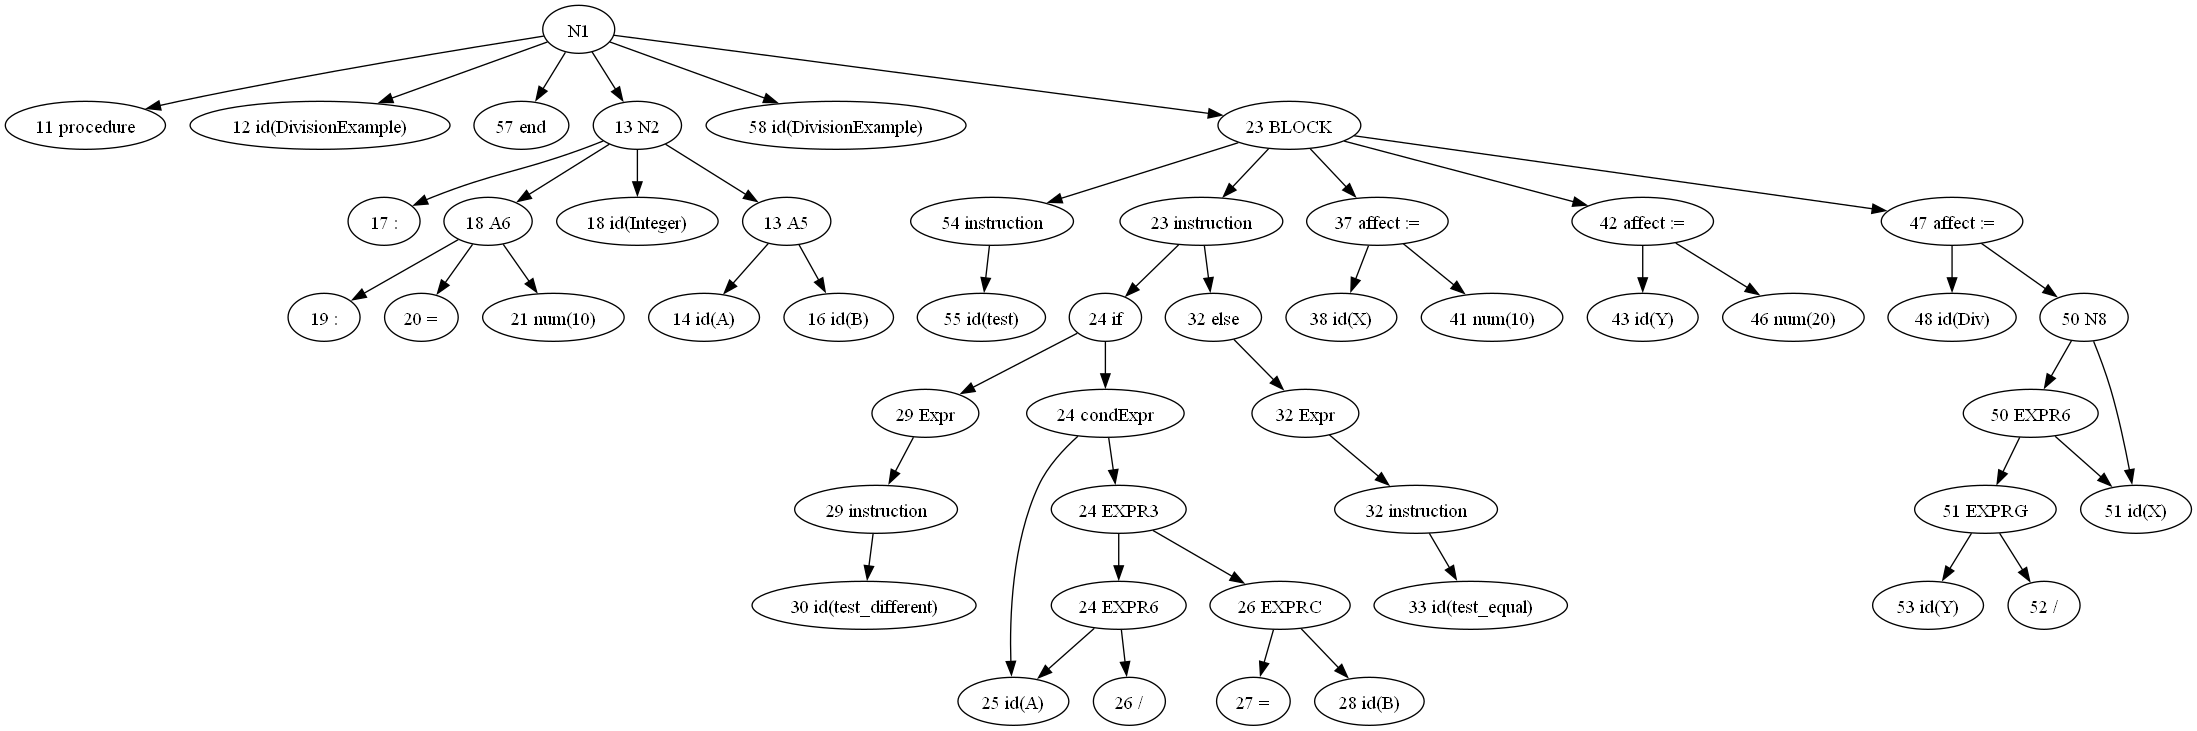
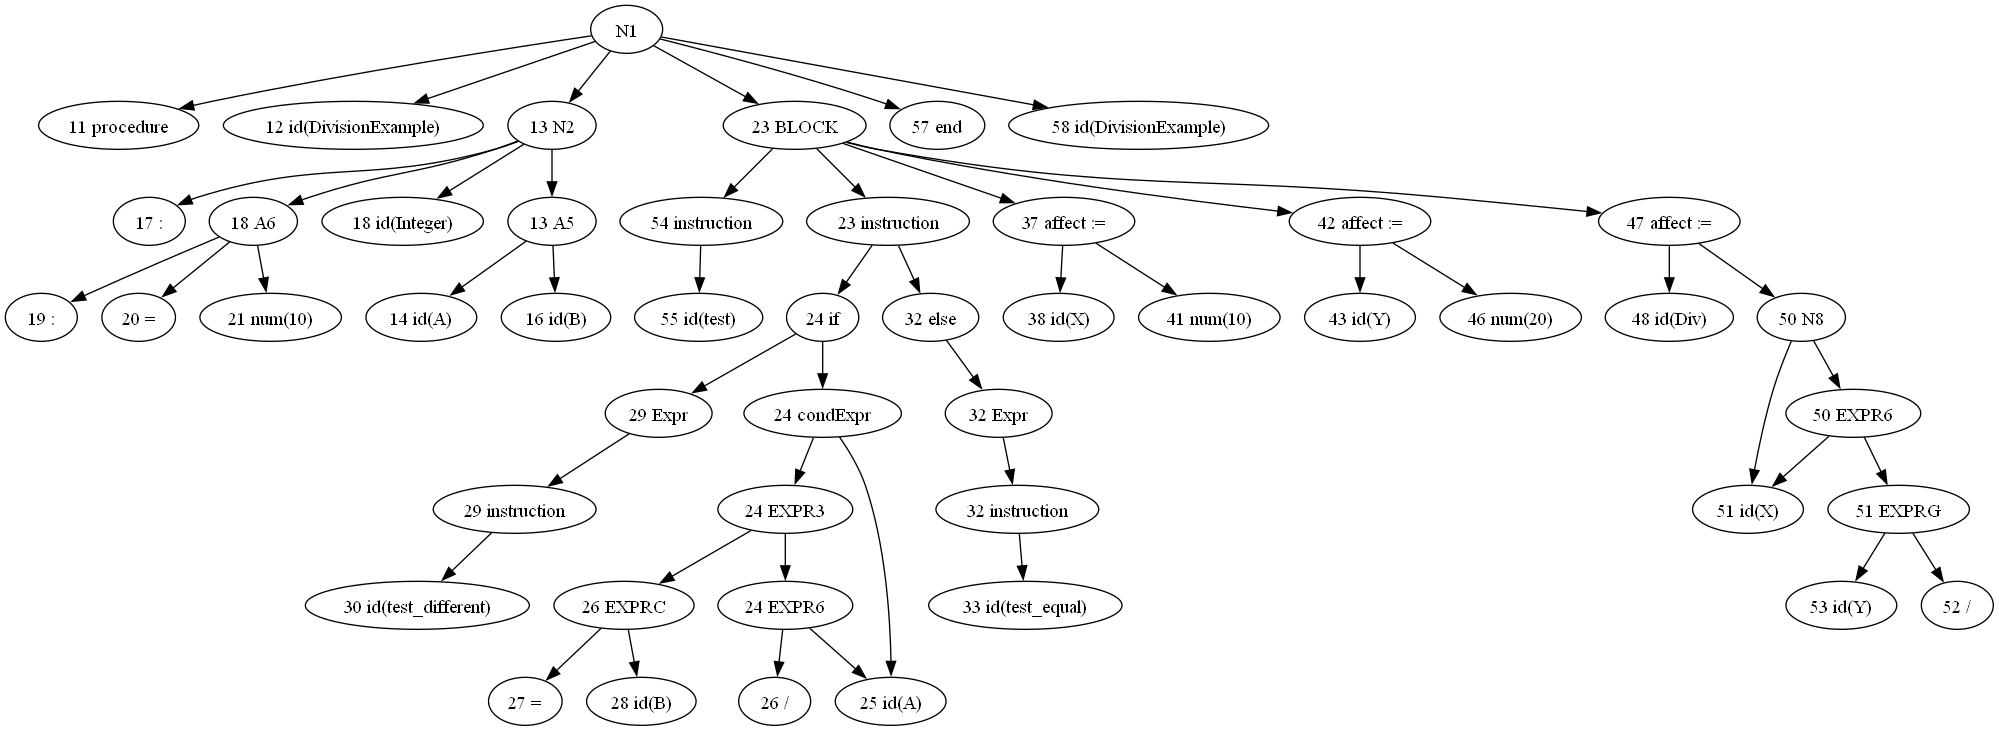
clean

diff --git a/parseur/main_parseur.py b/parseur/main_parseur.py
@@ -1,4 +1,4 @@
-from anytree import Node, RenderTree, search, PreOrderIter
+from anytree import Node, RenderTree, search, PreOrderIter, PostOrderIter
 from anytree.exporter import DotExporter
 
 import lexeur.file_to_code_ter as file
@@ -119,6 +119,14 @@ def addBlockNode(node):
     node.parent = x
     return x
 
+def clean(node):
+    children = node.children
+    for j in range(0, len(children)-1):
+        for i in range(j+1,len(children)):
+            if int(children[j].name.split(" ")[0])> int(children[i].name.split(" ")[0]):
+                children[j].parent = None
+                children[j].parent = node
+
 def removeA2(node):
     for node in PreOrderIter(node):
         if node.name != "N1":
@@ -131,7 +139,6 @@ def generate_final_AST(root):
     delete_leef_epsX(root)
     delete_all_nodes(root)
     remove_duplicate_children_working(root)
-    # delete_all_duplicates(root)
     boucle_node(root)
     test_logique(root)
     A2counter = 0
@@ -149,9 +156,16 @@ def generate_final_AST(root):
                 A2counter +=1
     for i in range(A2counter):
         removeA2(root)
+    clean(root)
+    h = hauteur_arbre(root)
+    for i in range(h):
+        for node in PostOrderIter(root):
+            clean(node)
+
     return root
 
-
+def hauteur_arbre(root):
+    return max(node.depth for node in PreOrderIter(root))
 def countleaves(node):
     return sum(1 for _ in PreOrderIter(node, filter_=lambda x: x.is_leaf))
 
